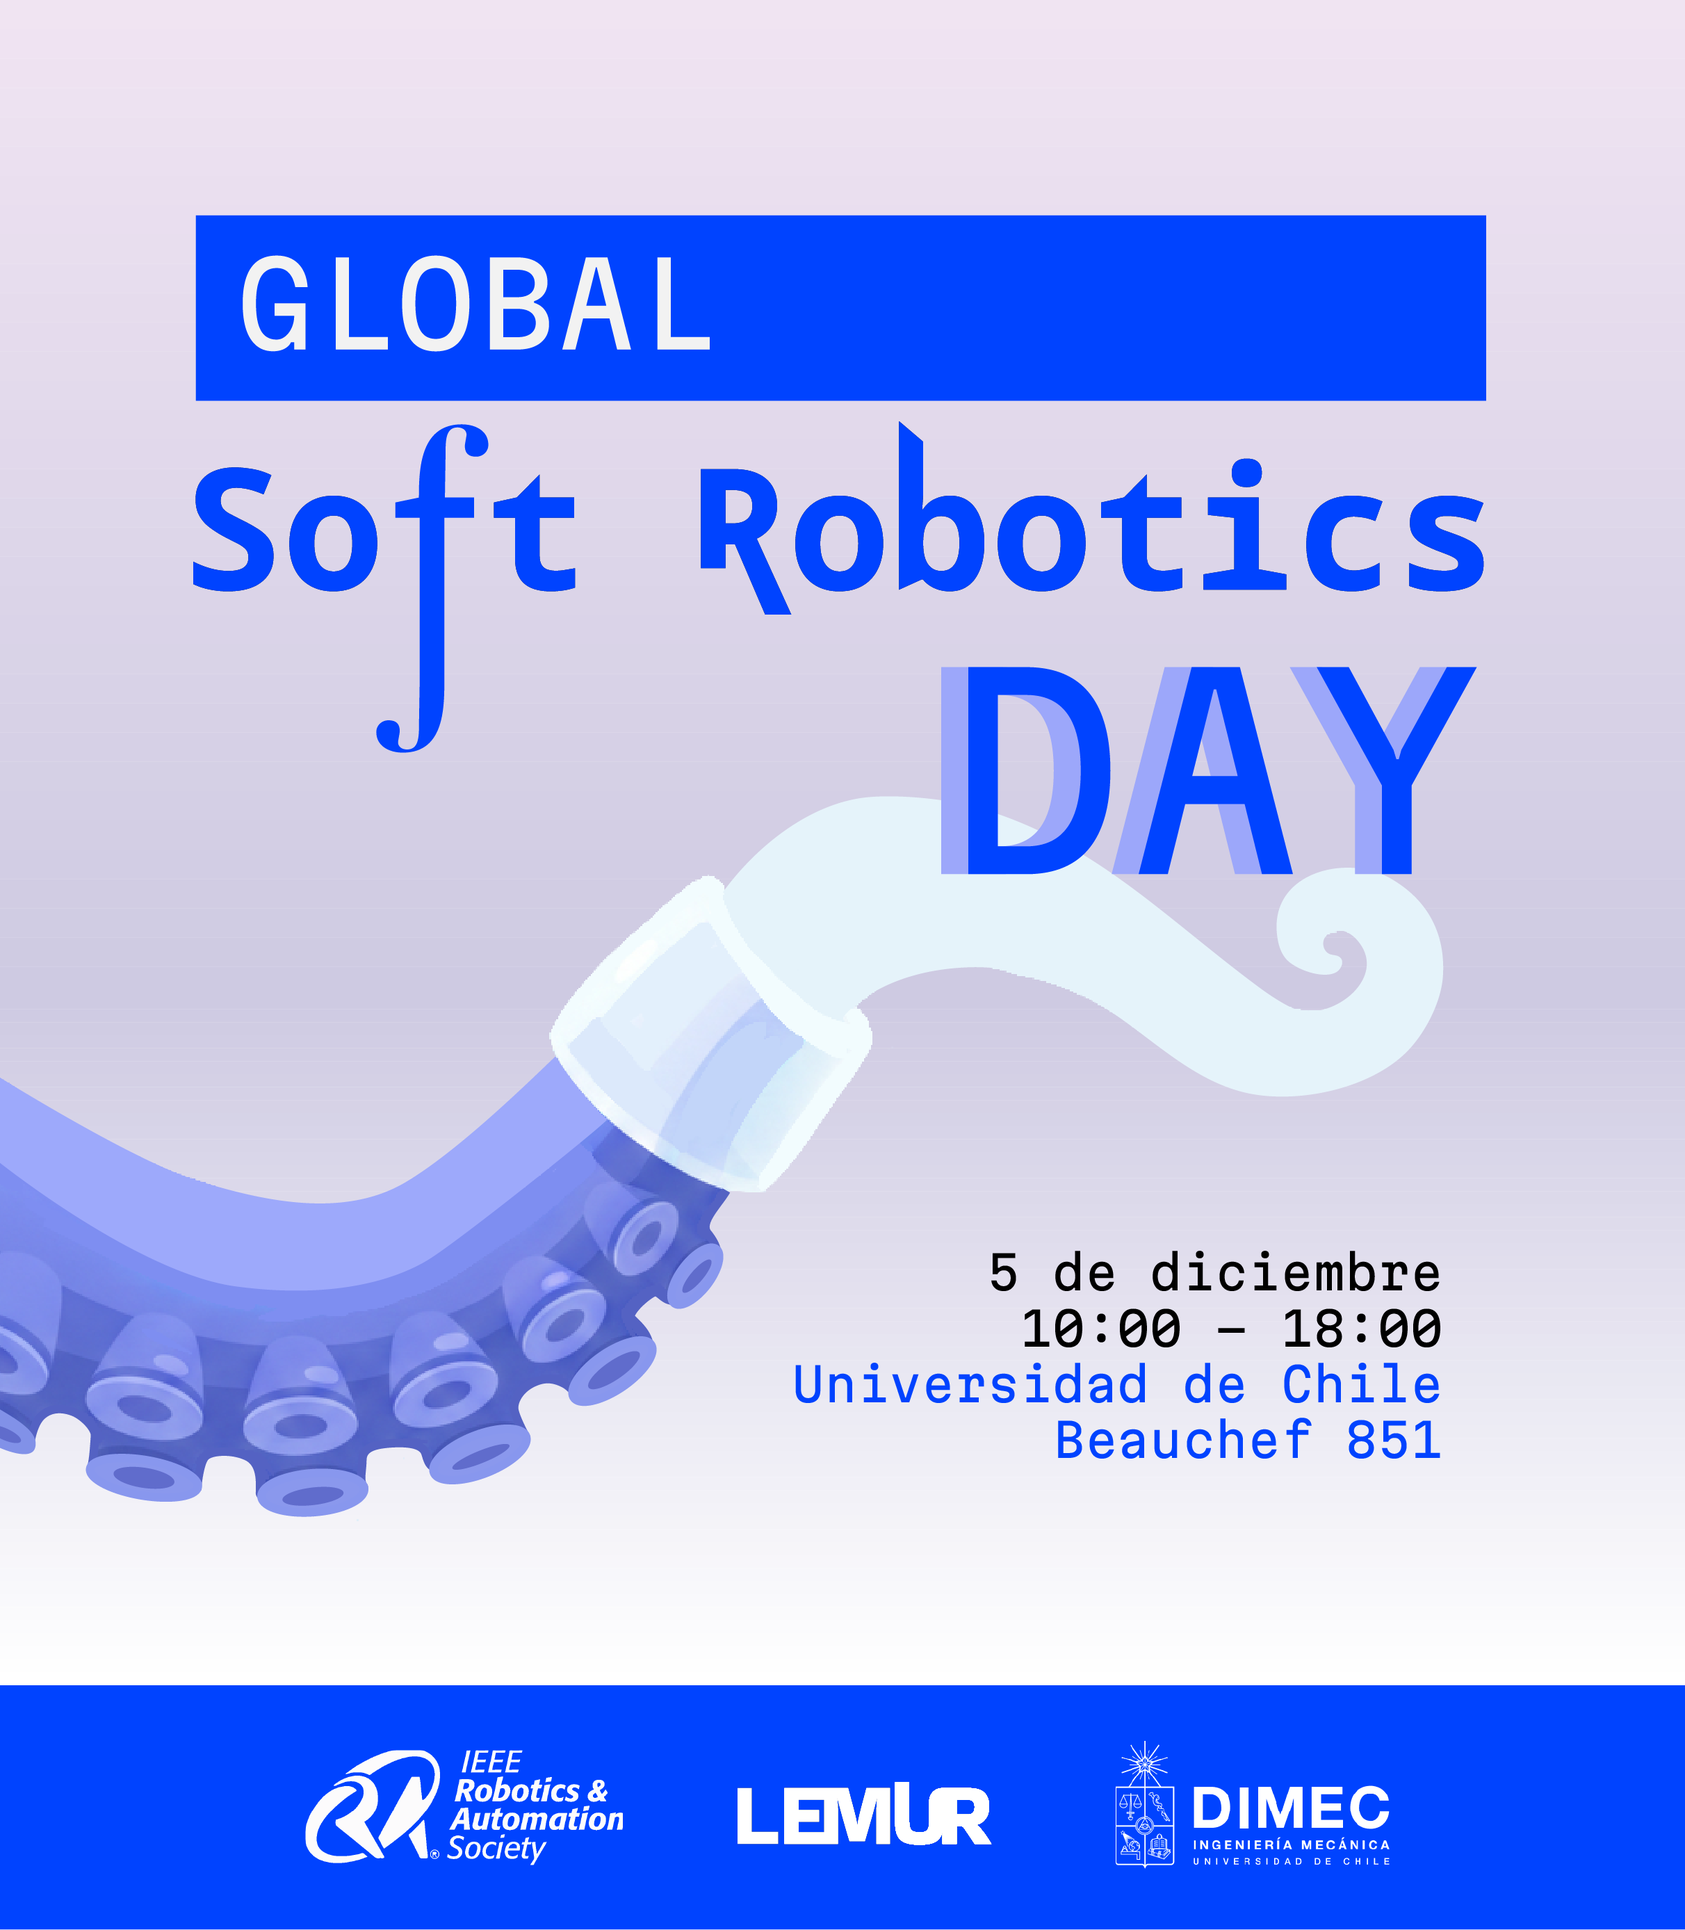
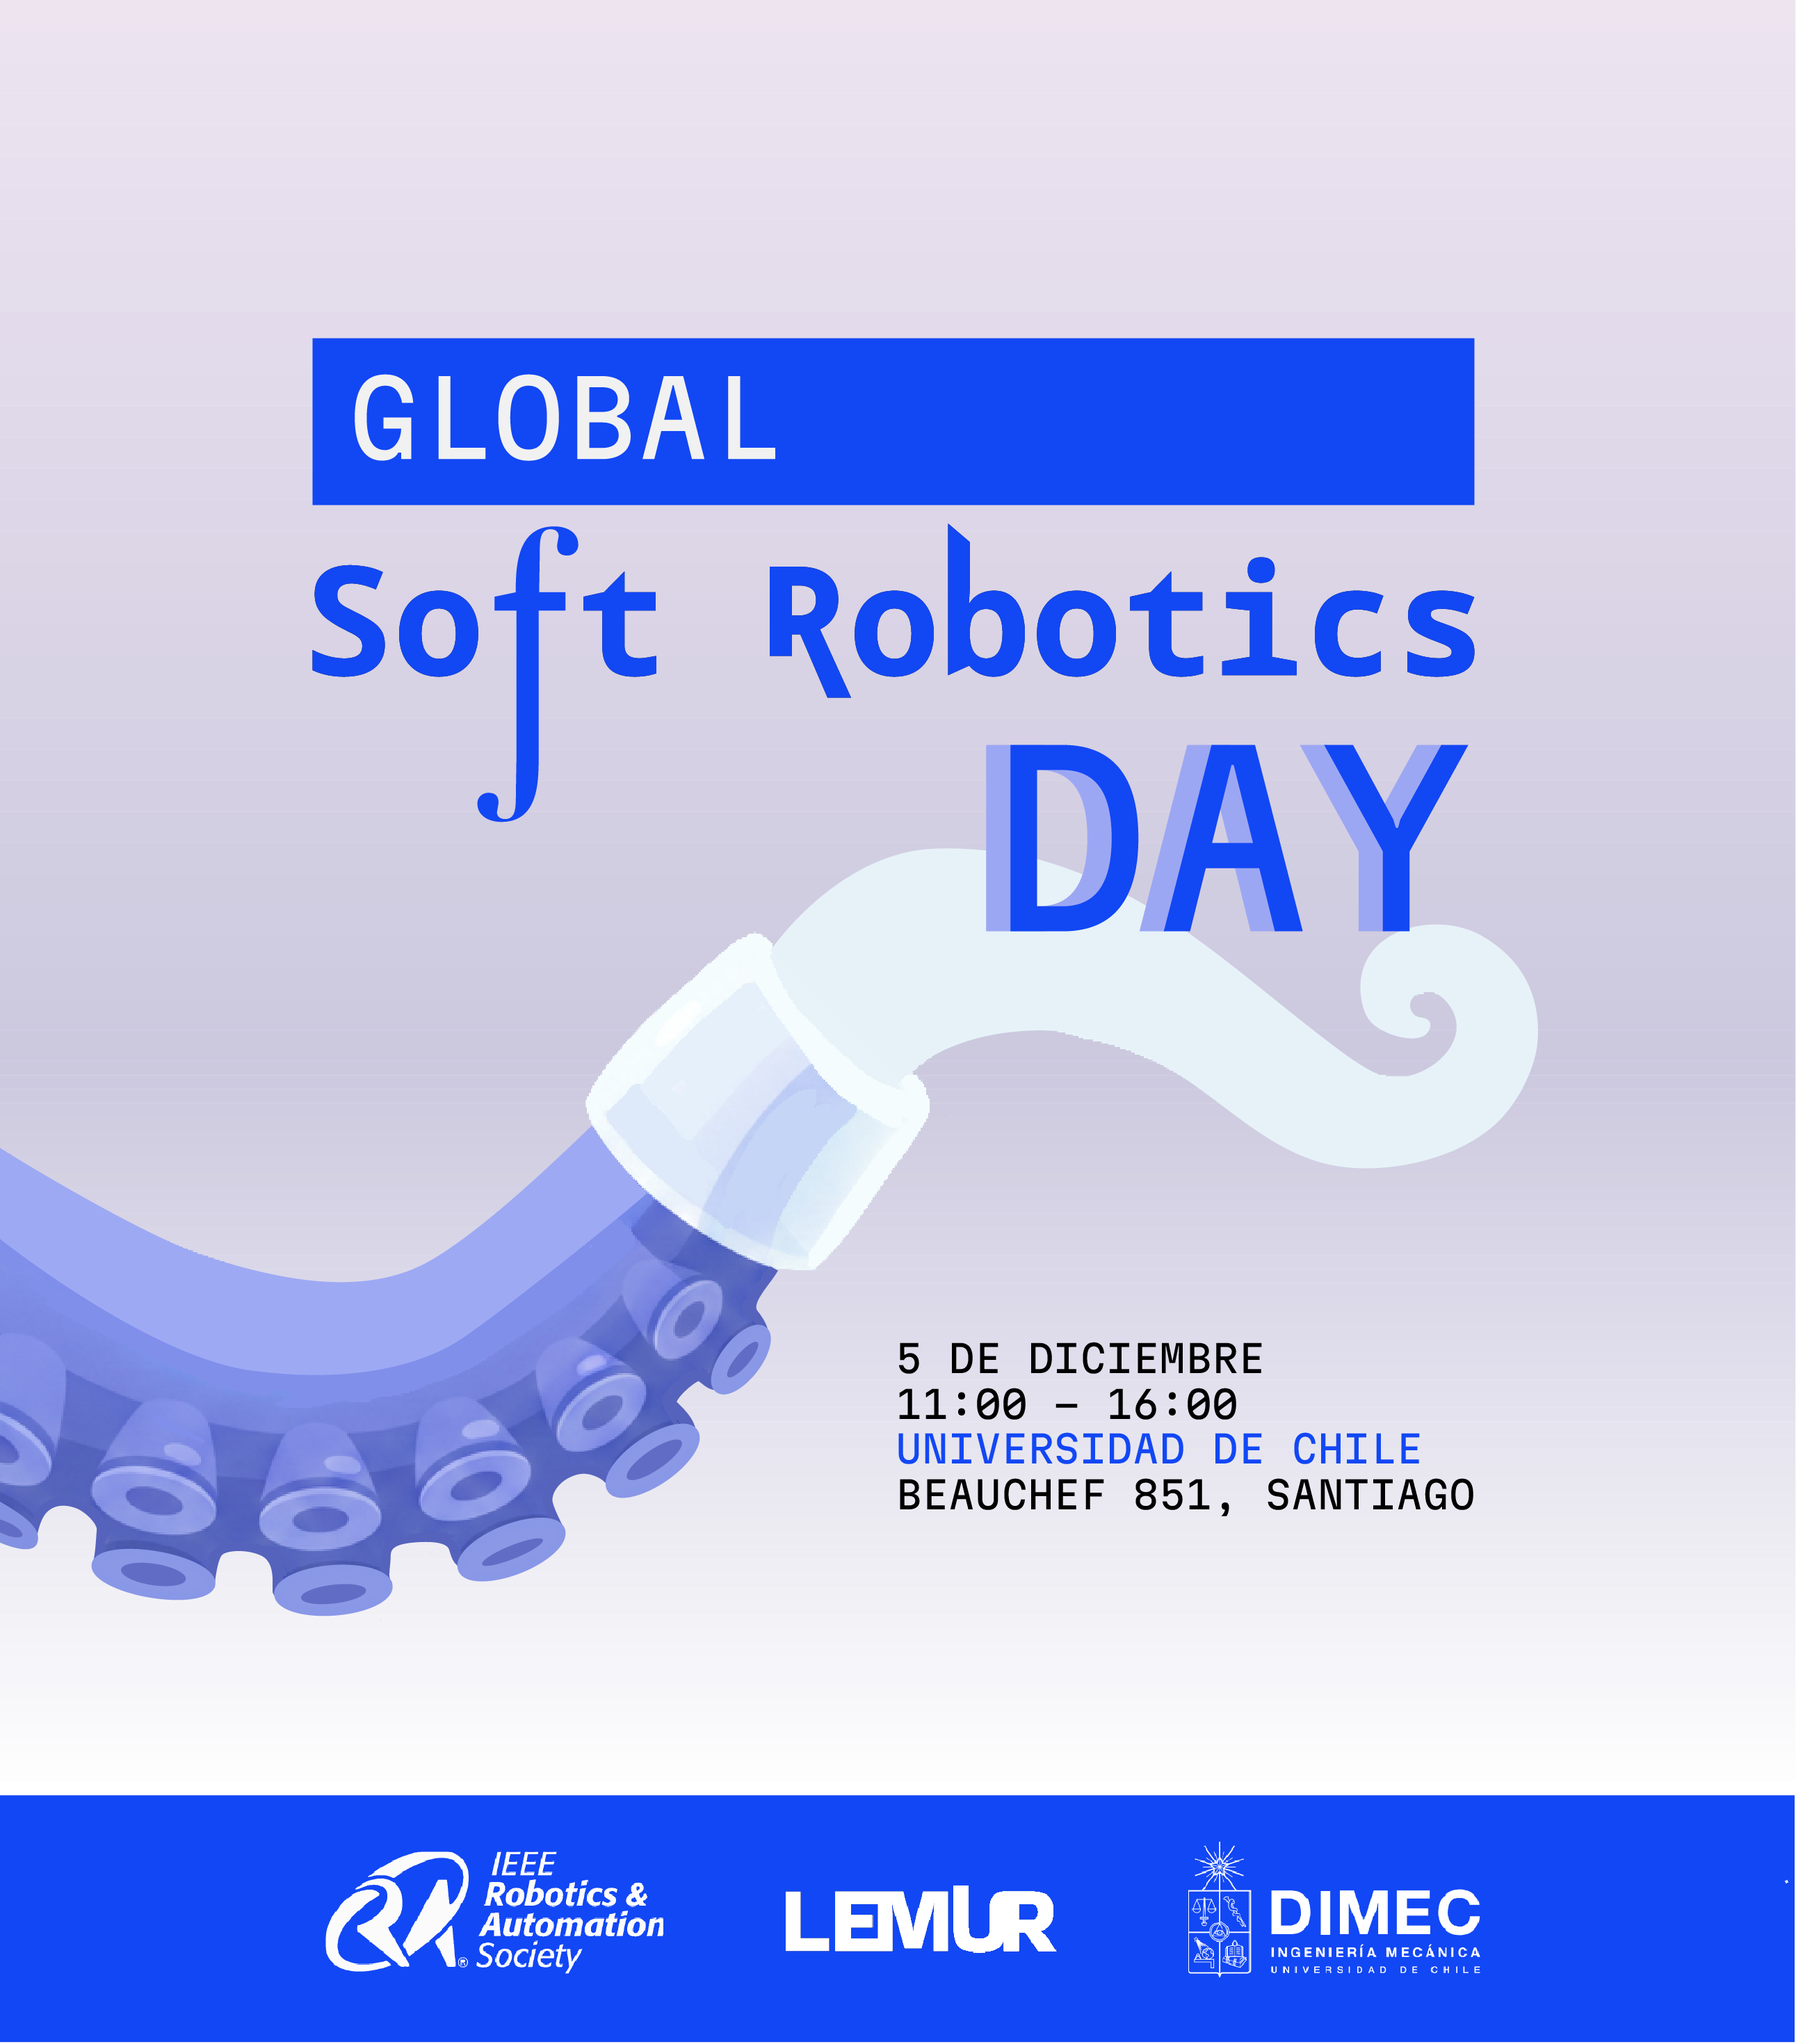
new poster sr

diff --git a/_services/global-sr.md b/_services/global-sr.md
@@ -20,10 +20,10 @@ Coffee break y networking para conversar sobre nuevas ideas.
 Es una oportunidad para conocer qué está pasando en robótica blanda a nivel mundial, conectar con la comunidad y mostrar el trabajo que se está desarrollando en Chile.
 
 - Lugar: Universidad de Chile, FCFM. Beuchef 851
-+ Hora: 10: 00 - 18:00 
++ Hora: 11: 00 - 16:00 
 + Fecha: 5 de diciembre del 2025
 + Evento gratuito
 
 ## Registro
 
-- [Formulario](https://docs.google.com/forms/d/e/1FAIpQLSe-Ov-QJFFqKvrodyaj568-3PcS1Ba4_by-OPrMNMGSLRJg2Q/viewform)
+[Formulario](https://docs.google.com/forms/d/e/1FAIpQLSe-Ov-QJFFqKvrodyaj568-3PcS1Ba4_by-OPrMNMGSLRJg2Q/viewform)
